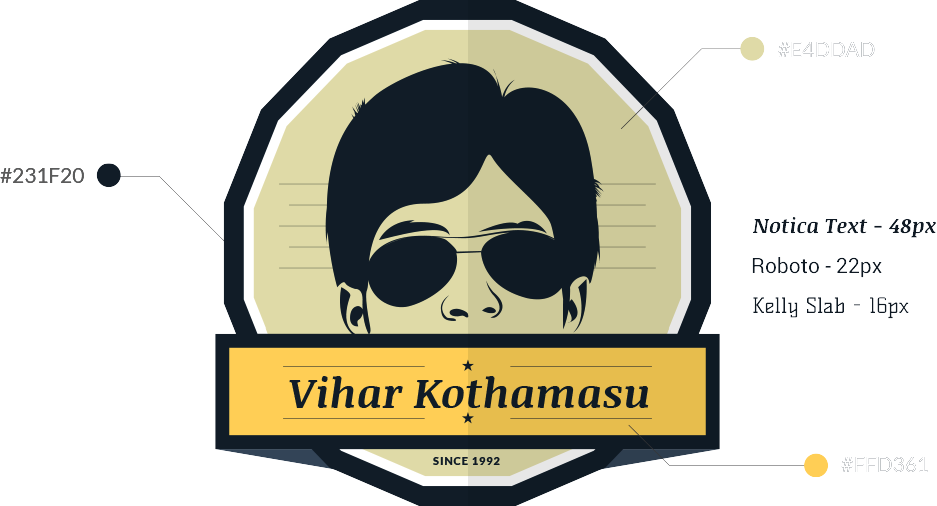
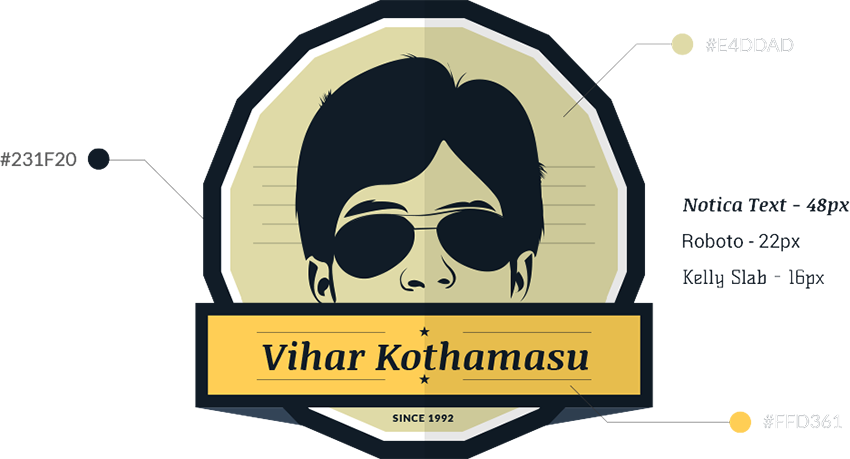
Launch 1.3
Major changes include font sizes, text, image sizes and scrolling

diff --git a/index.html b/index.html
@@ -2,10 +2,12 @@
 <html>
 <head>
 	<meta charset="UTF-8" />
-	<link href='http://fonts.googleapis.com/css?family=Roboto:400,300' rel='stylesheet' type='text/css'>
+	<link href='http://fonts.googleapis.com/css?family=Roboto:400,300,900' rel='stylesheet' type='text/css'>
 	<link href='http://fonts.googleapis.com/css?family=Kelly+Slab' rel='stylesheet' type='text/css'>
 	<link rel="icon" href="favicon.png" type="image/x-icon">
 	<link rel="stylesheet" type="text/css" href="index.css">
+	<script src="http://ajax.googleapis.com/ajax/libs/jquery/1.10.2/jquery.min.js"></script>
+	<script type="text/javascript" src="scrolltop.js"></script>
 	<title>Vihar Kothamasu</title>
 </head>
 
@@ -18,18 +20,20 @@
 					<li><a data-scroll data-options="easing: easeInQuad" href="#top-menu">HOME</a></li>
 					<li><a data-scroll data-options="easing: easeInQuad" href="#services-section">SERVICES</a></li>
 					<li><a data-scroll data-options="easing: easeInQuad" href="#aboutme-section">ABOUT ME</a></li>
-					<li><a data-scroll data-options="easing: easeInQuad" href="#portfolio-section">CLIENTELE</a></li>
+					<li><a data-scroll data-options="easing: easeInQuad" href="#clientele-section">CLIENTELE</a></li>
 					<li><a data-scroll data-options="easing: easeInQuad" href="#contact-section">CONTACT ME</a></li>
 				</ul>
 			</div>
 		</nav>
 	</header>
 
+    <a href="#" class="scrollup"><img src="arrow.png"></a>
+
 	<section id="main-section">
 		<div class="imgcontainer">
 			<img src="center2.png" id="main-image">
 		</div>
-			<p id="headtext">For those of you who don’t know me, this is Vihar. Welcome to my space !<br> I hope you have a good time with the few scrolls and clicks you make here.</p>
+			<p id="headtext">For those of you who don’t know me, this is Vihar. Welcome to my creative space !<br> I hope you have a good time with the few scrolls and clicks you make here.</p>
 	</section>
 
 	<section id="about-section">
@@ -60,17 +64,20 @@
 				<h1>ABOUT ME</h1>
 				<div id="tools">
 					<img src="tools.png">
-					<p>Well yes! I am a Graphic Designer. Wherever I go I see colors, fonts, shapes, because that is what I do, get inspired by what’s around me and translate that into designs. I always like it flat and minimal. I like to think out of the box, work hard at finding simplicity in design, even if it expresses something complicated. If there are two things that make me who I am, they are designing and football. I’m a Gooner and my bucket list has going to the Emirates stadium, right up there on top. An hour-a-day football days, are days well spent. Well, this is what my right part of the brain does.<br><br>
+					<p>Well yes! I am a Graphic Designer. I see the world a bit different, in a colorful wrap with much geometry around. Getting inspired and translating that into designs is what I enjoy the most. I like to think out of the box, work hard at finding simplicity in design, even if it expresses something complicated. I usually like it flat and minimal. If there are two things that make me who I am, they are designing and football. I’m a Gooner and my bucket list has going to the Emirates stadium, right up there on top and cheer for Arsenal. An hour-a-day football days, are days well spent. Well, this is what my right part of the brain does.<br><br>
 
-					The left absorbed whatever I learnt in the five good years I spent in BITS, Pilani. I wish I could be more technical and explain what I did in engineering, but I don’t really remember much. There are two things I believe with all my heart – It doesn’t matter what shoes you’re in, it matters what you do when you’re in them, and that today, is the first day of the rest of my life, so? Would I live life to the fullest?! Oh yes I would.</p>
+					Fortunately, the left works just fine too! It absorbed whatever I learnt in the five good years I spent in BITS, Pilani. I wish I could be more technical and explain what I did in engineering, but I don’t really remember much.<br><br>
+
+					There are two things I believe with all my heart – It doesn’t matter what shoes you’re in, it matters what you do when you’re in them, and that today, is the first day of the rest of my life, so? Would I live life to the fullest?! Oh yes I would.
+					</p>
 				</div>
 			</div>
 		</div>
 	</section>
 
-	<section id="portfolio-section">
+	<section id="clientele-section">
 		<div class="container">
-			<img src="portfolio.png" class="icon">
+			<img src="clientele.png" class="icon">
 			<h1>CLIENTELE</h1>
 			<div class="box"><img src="engreen.jpg"></div>
 			<div class="box"><img src="martmobi.jpg"></div>
@@ -98,15 +105,15 @@
 							<td>
 								<form action="" method="post" class="contactform" id="mainform">
 								    <label>
-								        <input id="name" type="text" name="name" placeholder="Enter Full Name" />
+								        <input id="name" type="text" name="name" placeholder="ENTER NAME" />
 								    </label>
 
 								    <label>
-								        <input id="email" type="email" name="email" placeholder="Enter Email Address" />
+								        <input id="email" type="email" name="email" placeholder="ENTER EMAIL" />
 								    </label>
 
 								    <label>
-								        <textarea id="message" name="message" placeholder="Your Message" form="form1"></textarea>
+								        <textarea id="message" name="message" placeholder="YOUR MESSAGE" form="form1"></textarea>
 								    </label> 
 
 								    <label>
@@ -123,7 +130,7 @@
 
 	<footer>
 		<div class="container">
-			<p>© ALL RIGHTS ARE OBVIOUSLY RESERVED | 2014 VIHARKOTHAMASU.COM</p>
+			<p>© ALL RIGHTS ARE OBVIOUSLY RESERVED | 2014 VIHAR KOTHAMASU</p>
 			<div>
 				<a href="https://www.facebook.com/viharks" target="_blank"><img src="fb.png"></a>
 				<a href="https://twitter.com/ksvihar" target="_blank"><img src="twitter.png"></a>

diff --git a/index.css b/index.css
@@ -15,7 +15,7 @@ p {
 
 h1 {
 	font-family: 'Kelly Slab', cursive;
-	font-size: 28px;
+	font-size: 26px;
 	color: #4e5a56;
 	text-align: center;
 	margin: 0;
@@ -52,7 +52,7 @@ a:hover {
 }
 
 .imgcontainer {
-	width: 940px;
+	width: 850px;
 	margin: 0 auto;
 }
 
@@ -95,12 +95,13 @@ a:hover {
 	height: 880px;
 	margin: 70px 0 0 0;
 	background-image: url(bgimage.jpg);
-	background-attachment: cover;
+	background-size: cover;
+	background-repeat: no-repeat;
 }
 
 #main-image {
 	padding: 0;
-	margin: 115px auto 90px;
+	margin: 120px auto 130px;
 	transition: .4s;
 	-webkit-transition: .4s;
 	-moz-transition: .2s;
@@ -113,14 +114,14 @@ a:hover {
 }
 
 p#headtext {
-	font-size: 120%;
+	font-size: 110%;
 	font-weight: 300;
 	line-height: 1.6;
 	color: #ffffff;
 	text-shadow: 0px 0px 50px #000000;
 	background-color: rgba(0, 0, 0, 0.8);
-	margin-top: 35px;
-	padding: 35px;
+	margin-top: 62px;
+	padding: 25px;
 }
 
 /* ABOUT-SECTION */
@@ -183,7 +184,8 @@ img.icon {
 }
 
 .service-box p {
-	padding: 15px;
+	padding: 15px 15px 30px;
+	color: #555555;
 }
 
 .service-box h2 {
@@ -207,7 +209,7 @@ img.icon {
 }
 
 #tools {
-	padding: 50px;
+	padding: 70px;
 	margin: 0;
 }
 
@@ -231,20 +233,21 @@ img.icon {
 
 #tools p {
 	text-align: justify;
-	line-height: 1.7;
+	line-height: 1.65;
 	float: 20px;
 	color: #555555;
-	margin-top: 40px;
+	margin-top: 10px;
+	font-size: 95%;
 }
 
 
-/* PORTFOLIO-SECTION */
+/* CLIENTELE-SECTION */
 
-#portfolio-section {
+#clientele-section {
 	width: 100%;
 	height: 900px;
 	margin: 0;
-	background-color: #ffffff;
+	background-color: #fff;
 }
 
 p#work {
@@ -294,14 +297,14 @@ p#work {
 }
 
 .contact-text p{
-	font-size: 130%;
+	font-size: 120%;
 	font-weight: 300;
 	text-align: left;
 	padding: 40px 0;
 }
 
 .contact-text img{
-	top: 15px;
+	top: 30px;
 	left: 60px;
 	position: relative;
 }
@@ -337,7 +340,8 @@ img.icon1 {
 }
 
 .contactform ::-webkit-input-placeholder {  
-      color: #666666;
+      color: #a79461;
+      font-weight: 900;
 } 
 
 .contactform input[type="text"], .contactform input[type="email"], .contactform textarea {
@@ -365,17 +369,21 @@ img.icon1 {
 
 .contactform .button {
 	font-family: 'Roboto', sans-serif;
-    font-size: 100%;
+    font-size: 105%;
     background: #333333;
     width: 440px;
     height: 60px;
-    color: #999999;
+    color: #a1aea1;
+    font-weight: 900;
     border: none;
     margin: 0;
+    border-bottom: solid;
+    border-width: 5px;
+    border-color: #554f45;
 }
 
 .contactform .button:hover {
-    background: #162431;
+    background: #404040;
 }
 
 
@@ -403,9 +411,33 @@ footer img {
 	border: none;
 	width: 50px;
 	height: 50px;
+	transition: .2s;
+	-webkit-transition: .2s;
+	-moz-transition: .2s;
+    -o-transition: .2s;
 }
 
 footer img:hover {
-	box-shadow: 0 0 10px rgba(0, 0, 0, .6);
+	-ms-transform: translate(0,-2px); /* IE 9 */
+	-webkit-transform: translate(0,-2px); /* Chrome, Safari, Opera */
+	transform: translate(0,-2px);
 }
 
+
+
+
+.scrollup {
+    width: 40px;
+    height: 40px;
+    position: fixed;
+    bottom: 30px;
+    right: 30px;
+    display: none;
+    background-color: #162431;
+    z-index: +10;
+    border-radius: 4px;
+}
+
+.scrollup img {
+	padding: 15px 10px;
+}

diff --git a/scrolltop.js b/scrolltop.js
@@ -1,0 +1,18 @@
+$(document).ready(function () {
+
+    $(window).scroll(function () {
+        if ($(this).scrollTop() > 100) {
+            $('.scrollup').fadeIn();
+        } else {
+            $('.scrollup').fadeOut();
+        }
+    });
+
+    $('.scrollup').click(function () {
+        $("html, body").animate({
+            scrollTop: 0
+        }, 600);
+        return false;
+    });
+
+});
